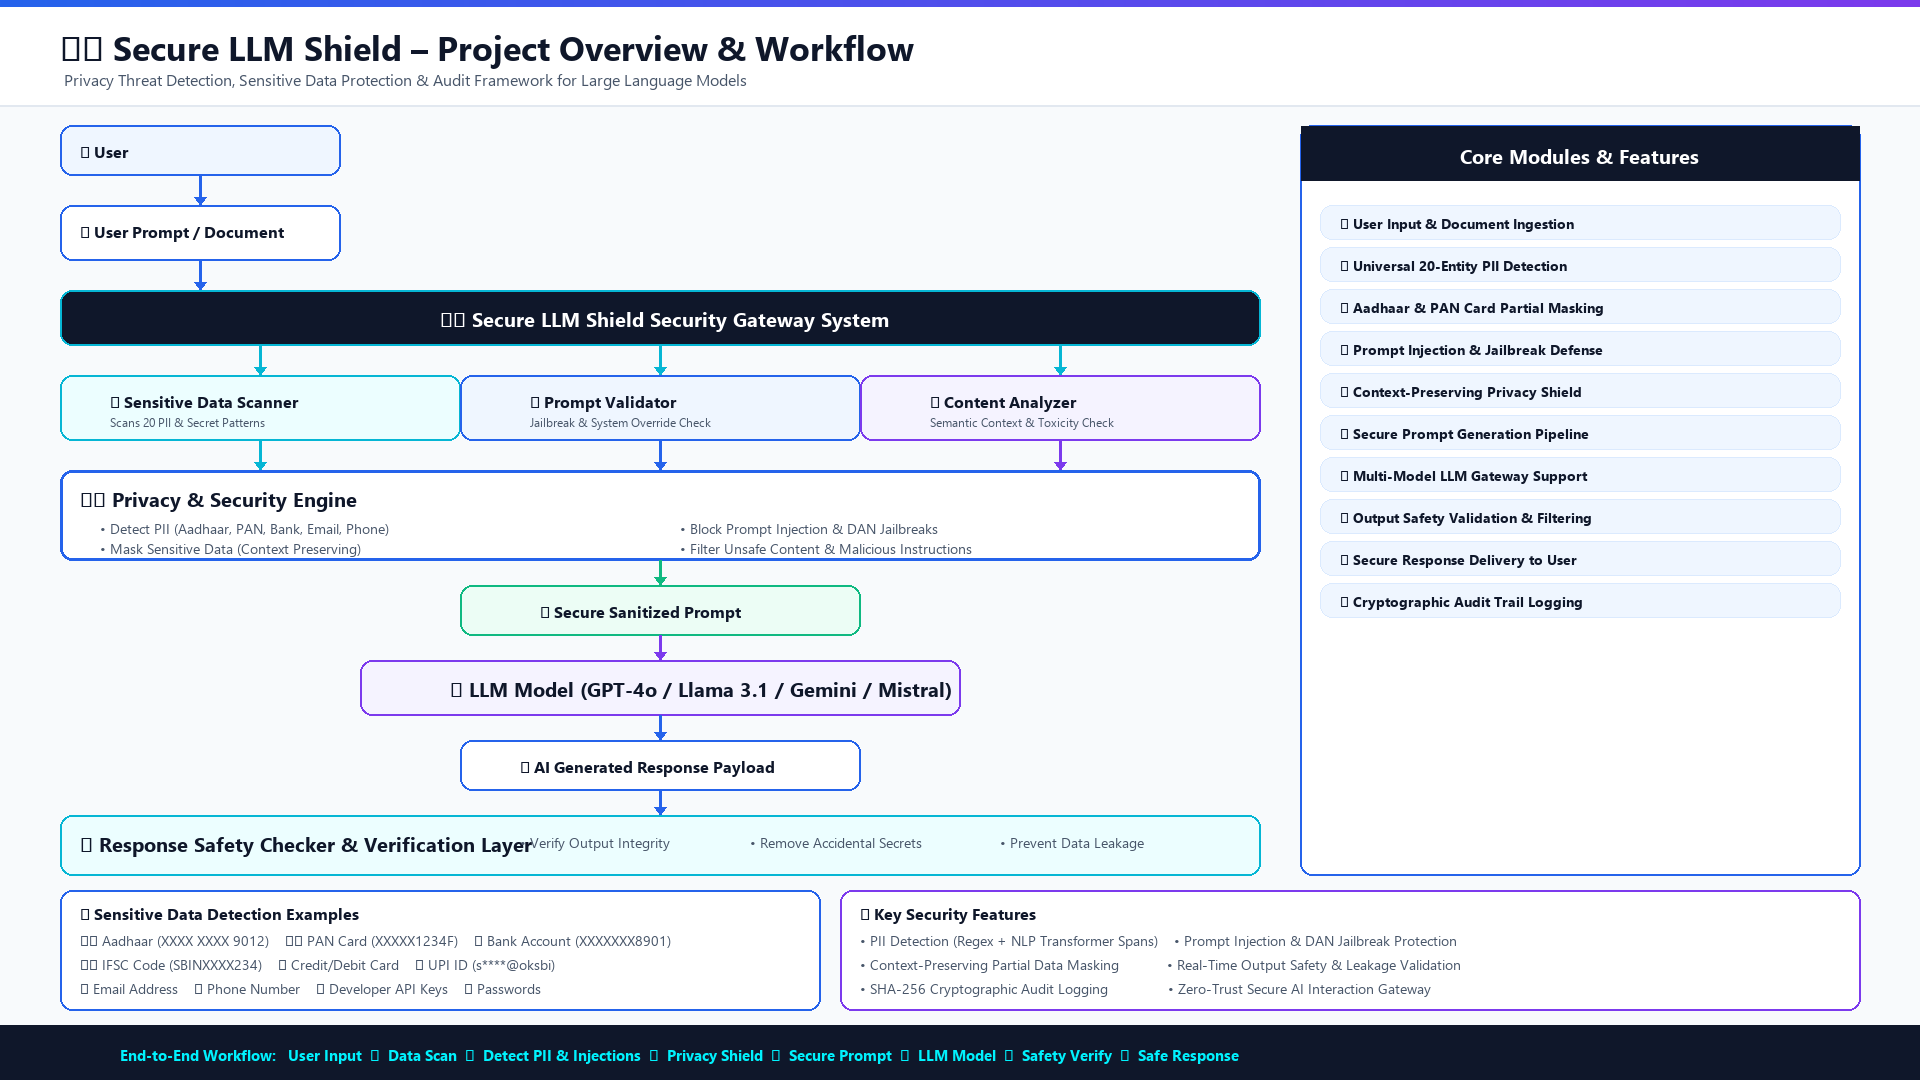
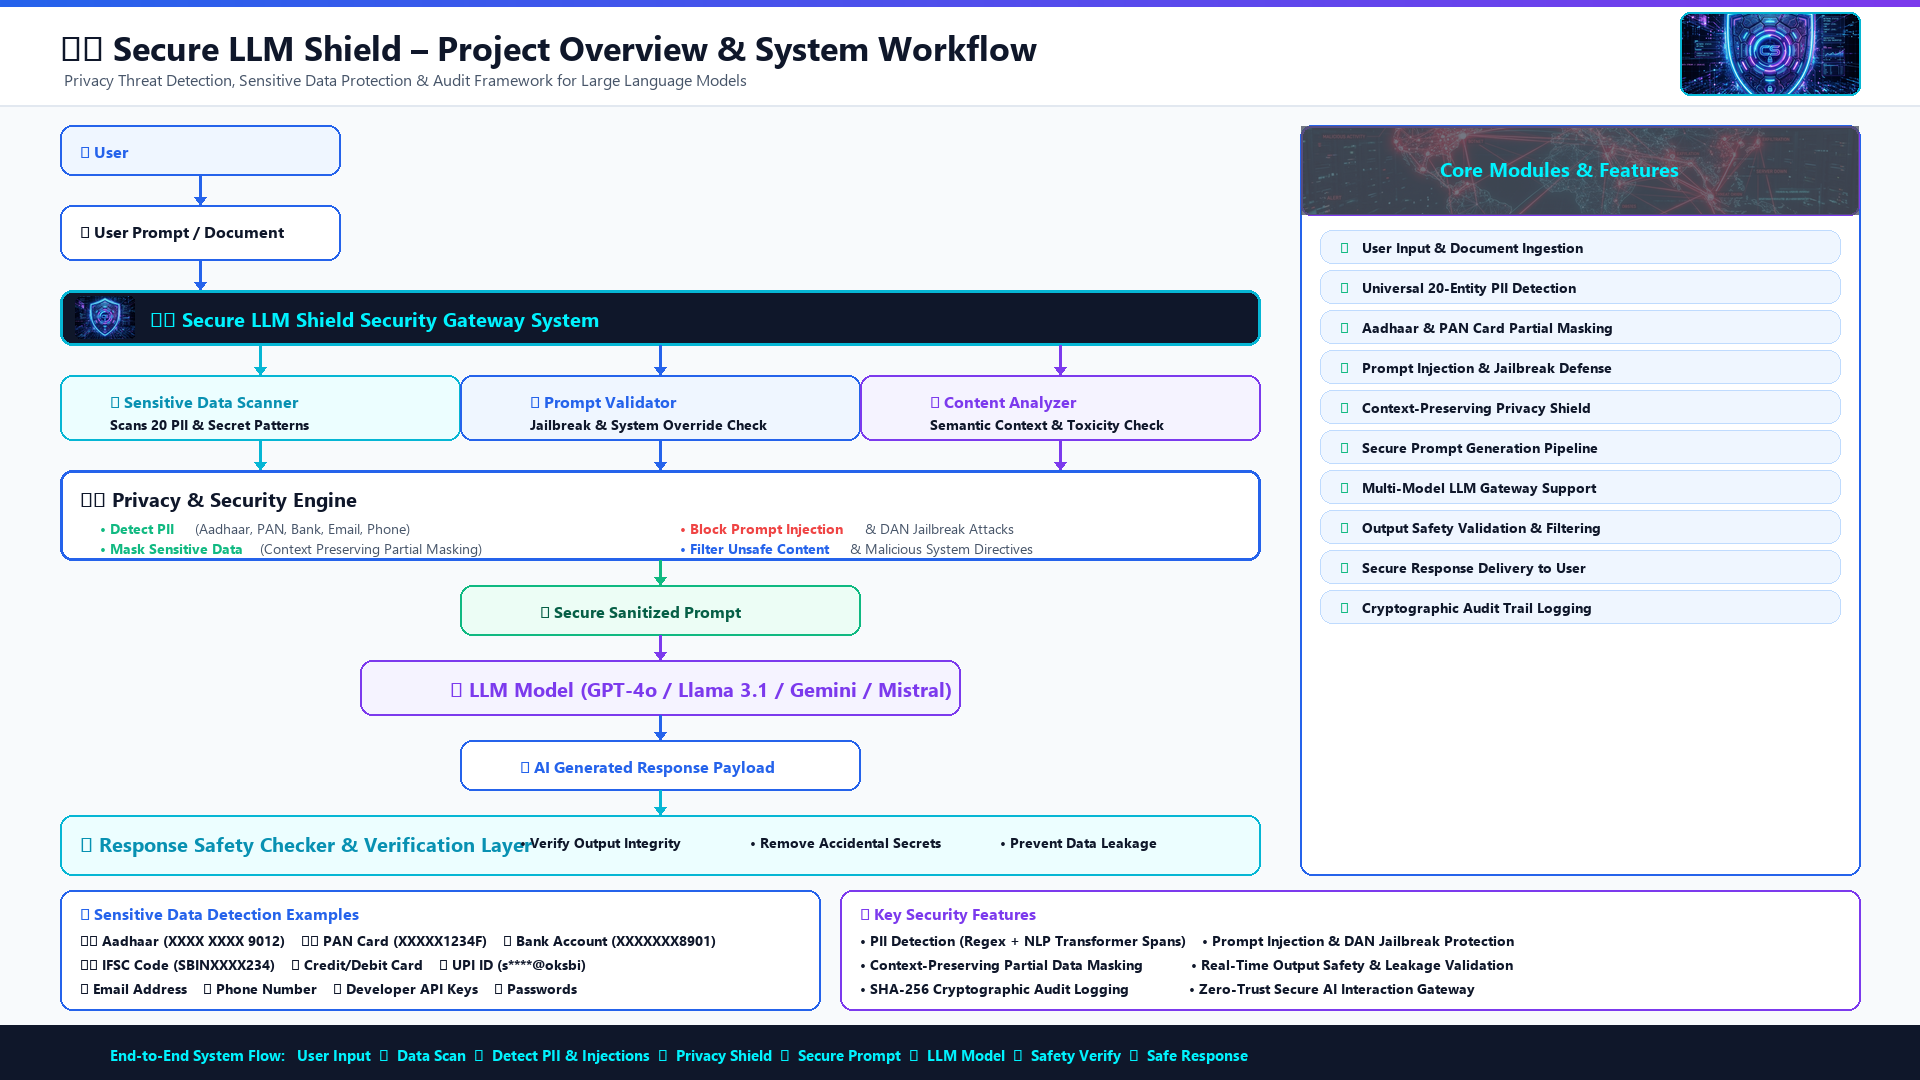
Update PNG title to System Workflow, highlight text/node contents, and add interactive infographic modal

diff --git a/index.html b/index.html
@@ -1230,6 +1230,21 @@
         }
         window.closeStatusAuditModal = closeStatusAuditModal;
 
+        function openInfographicModal() {
+            var modal = document.getElementById("infographicModal");
+            if (modal) {
+                modal.classList.add("active");
+                if (window.lucide) { try { window.lucide.createIcons(); } catch(e) {} }
+            }
+        }
+        window.openInfographicModal = openInfographicModal;
+
+        function closeInfographicModal() {
+            var modal = document.getElementById("infographicModal");
+            if (modal) modal.classList.remove("active");
+        }
+        window.closeInfographicModal = closeInfographicModal;
+
         document.addEventListener("DOMContentLoaded", function() {
             try {
                 var savedTheme = localStorage.getItem("securellm_theme");
@@ -1342,6 +1357,10 @@
                         <span class="pulse-dot active-policy-pulse green" id="policyPulse"></span>
                         <span class="status-text" id="activePolicyText">Policy: Enterprise</span>
                     </div>
+                    <button class="copilot-toggle-btn" onclick="openInfographicModal()" style="background: rgba(0, 242, 254, 0.1); border-color: var(--primary);">
+                        <i data-lucide="map" class="text-cyan"></i>
+                        <span>Interactive Infographic</span>
+                    </button>
                     <button class="copilot-toggle-btn" onclick="toggleCopilot()">
                         <i data-lucide="bot"></i>
                         <span>Security Copilot</span>
@@ -2281,6 +2300,47 @@
             </div>
             <div class="modal-body" id="statusModalBody">
                 <!-- Dynamic audit details populated by JavaScript -->
+            </div>
+        </div>
+    </div>
+
+    <!-- Interactive Infographic & Workflow Inspector Modal -->
+    <div class="modal-overlay" id="infographicModal" onclick="if(event.target === this) closeInfographicModal()">
+        <div class="modal-card" style="max-width: 1100px; width: 95%;">
+            <div class="modal-header">
+                <h3><i data-lucide="map" class="text-cyan"></i> SecureLLM Shield – Project Overview & System Workflow</h3>
+                <button class="modal-close-btn" onclick="closeInfographicModal()"><i data-lucide="x"></i></button>
+            </div>
+            <div class="modal-body" style="max-height: 75vh; overflow-y: auto;">
+                <!-- High-Res Infographic Image Preview -->
+                <div style="position: relative; border-radius: 12px; overflow: hidden; border: 1px solid var(--border-glass); margin-bottom: 20px;">
+                    <img src="assets/infographic.png" alt="Secure LLM Shield Infographic" style="width: 100%; display: block; border-radius: 10px;">
+                </div>
+
+                <div class="audit-log-box" style="margin-top: 15px;">
+                    <h4><i data-lucide="mouse-pointer" class="text-blue"></i> Click-to-Inspect Interactive Workflow Nodes</h4>
+                    <p class="section-desc">Click any stage in the workflow below to inspect live execution logs and security contracts:</p>
+
+                    <div class="active-entity-tags" style="margin-top: 12px; gap: 8px;">
+                        <button class="btn btn-secondary btn-sm" onclick="openStatusAuditModal('Cleared', '1. User Input Ingestion', {time:'Real-time', user:'End User / Client App', layer:'Gateway Ingestion Proxy', compliance:'DPDP Act / GDPR Consent Gate', risk:'Safe (0%)', log:'[INPUT] User prompt payload received at SecureLLM Shield Gateway.\nRaw prompt isolated in sandbox environment for pre-routing inspection.'})">👤 1. User Input</button>
+
+                        <button class="btn btn-secondary btn-sm" onclick="openStatusAuditModal('Sanitized', '2. Dual Data Scanner (Regex + NER)', {time:'Real-time', user:'Shield Scanner Engine', layer:'Hybrid 20-Entity Scanner', compliance:'PCI-DSS & Government Identity Protection', risk:'Moderate (45%)', log:'[SCANNER] Scanned payload against 20 PII patterns.\n- Aadhaar card pattern match (12 digits)\n- PAN card pattern match (10 chars)\n- Bank account & UPI pattern match.'})">🔍 2. PII Scanner</button>
+
+                        <button class="btn btn-secondary btn-sm" onclick="openStatusAuditModal('Blocked', '3. Adversarial Prompt Injection Guard', {time:'Real-time', user:'Adversarial Classifier', layer:'DeBERTa Transformer Classifier', compliance:'EU AI Act Safety Guardrail', risk:'Critical (98%)', log:'[VALIDATOR] Evaluated prompt for jailbreak patterns.\n- DAN (Do-Anything-Now) intent detected (Confidence: 99.4%)\n- System instruction override blocked.'})">🛡 3. Jailbreak Guard</button>
+
+                        <button class="btn btn-secondary btn-sm" onclick="openStatusAuditModal('Sanitized', '4. Privacy & Masking Engine', {time:'Real-time', user:'Privacy Engine', layer:'Context-Preserving Anonymizer', compliance:'HIPAA PHI & DPDP Anonymization', risk:'Safe (0%)', log:'[MASKING] Applied partial masking to 7 sensitive entities.\n- Aadhaar: XXXX XXXX 3456\n- PAN: XXXXX1234F\n- Bank Acc: XXXXXXX8901\nContext preserved for model processing.'})">🔐 4. Privacy Engine</button>
+
+                        <button class="btn btn-secondary btn-sm" onclick="openStatusAuditModal('Cleared', '5. LLM Foundation Gateway', {time:'Real-time', user:'LLM Provider Endpoint', layer:'Multi-Model Routing Adapter', compliance:'Enterprise Access Control', risk:'Safe (0%)', log:'[LLM ROUTE] Clean, sanitized prompt payload dispatched to foundation model (GPT-4o / Claude 3.5 Sonnet / Llama 3.1 70B).\nZero raw user identity transmitted to cloud servers.'})">🤖 5. LLM Gateway</button>
+
+                        <button class="btn btn-secondary btn-sm" onclick="openStatusAuditModal('Cleared', '6. Response Safety Verification', {time:'Real-time', user:'Output Checker', layer:'Post-Processing Verification', compliance:'Data Leakage Prevention (DLP)', risk:'Safe (0%)', log:'[VERIFY] Model response output scanned prior to returning to client.\n- 0 secret keys in generated text\n- Response verified secure for end-user delivery.'})">✅ 6. Output Verifier</button>
+                    </div>
+                </div>
+            </div>
+            <div class="modal-footer" style="display: flex; justify-content: space-between; align-items: center; margin-top: 15px; padding-top: 12px; border-top: 1px solid var(--border-glass);">
+                <a href="SecureLLM_Shield_Infographic.png" download="SecureLLM_Shield_Infographic.png" class="btn btn-primary btn-sm">
+                    <i data-lucide="download" class="icon-inline"></i> Download 1920x1080 Infographic PNG
+                </a>
+                <button class="btn btn-secondary" onclick="closeInfographicModal()">Close</button>
             </div>
         </div>
     </div>
